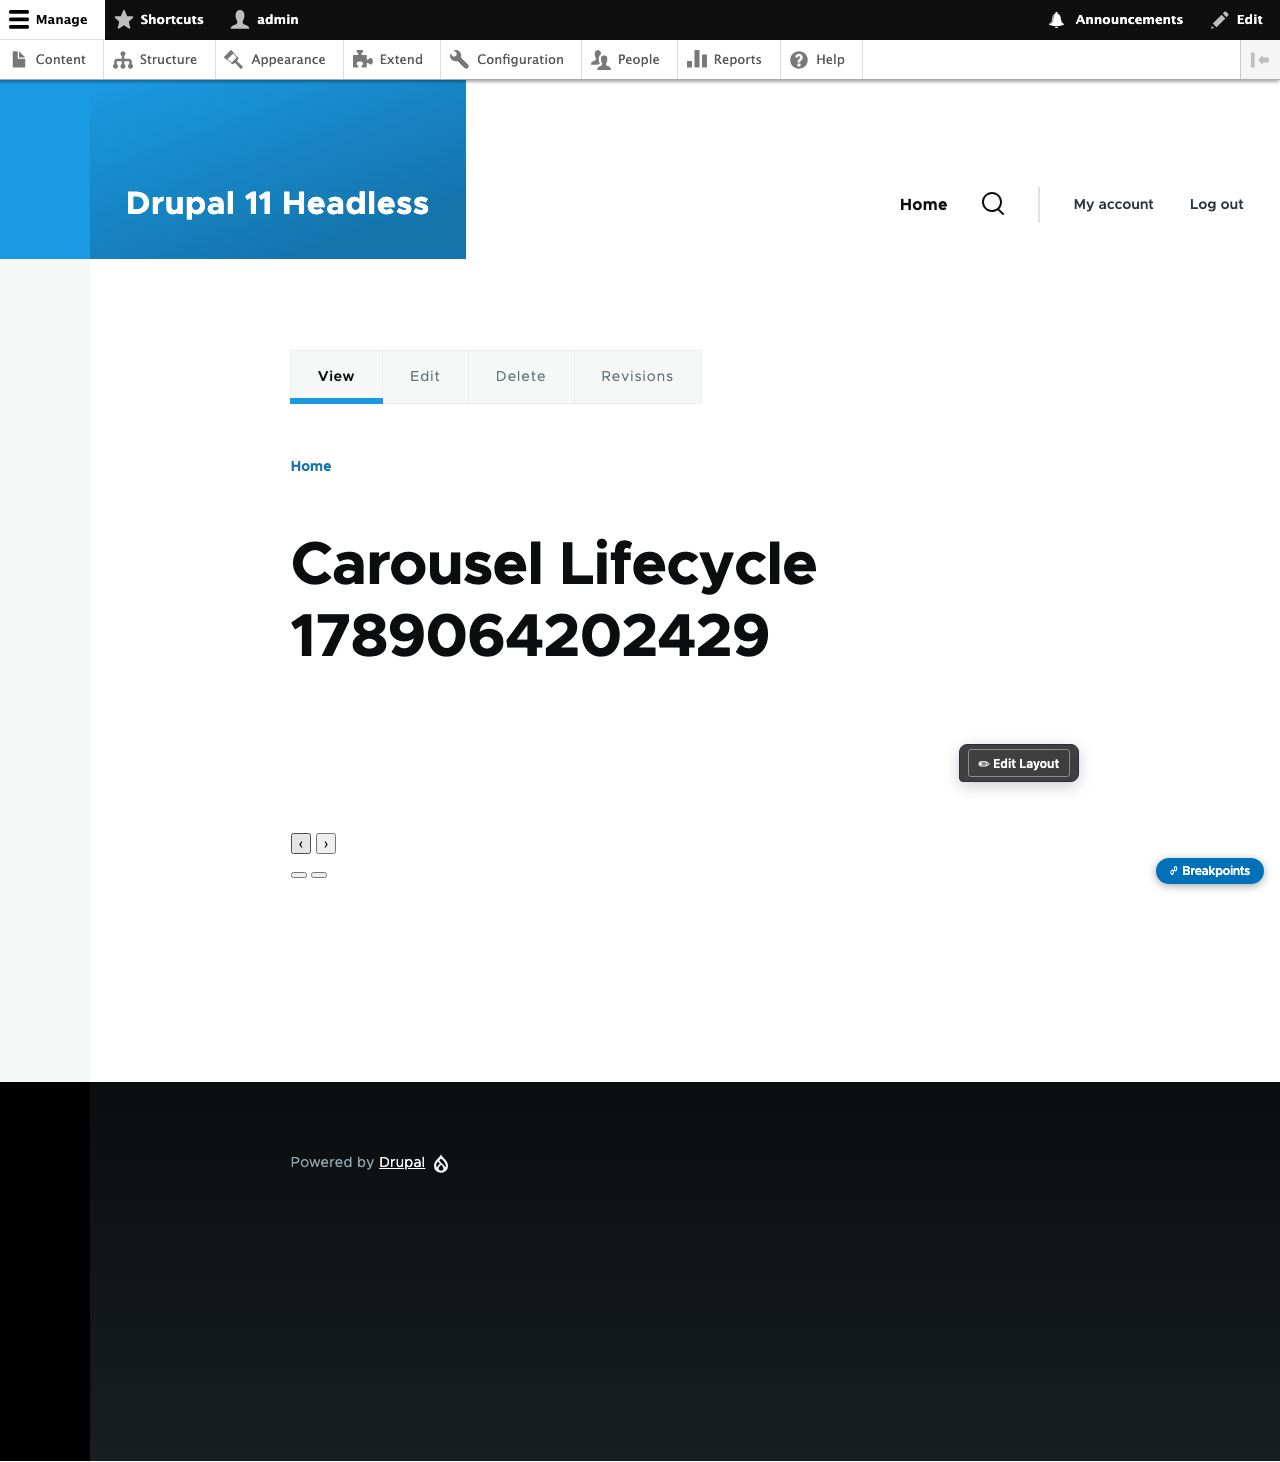
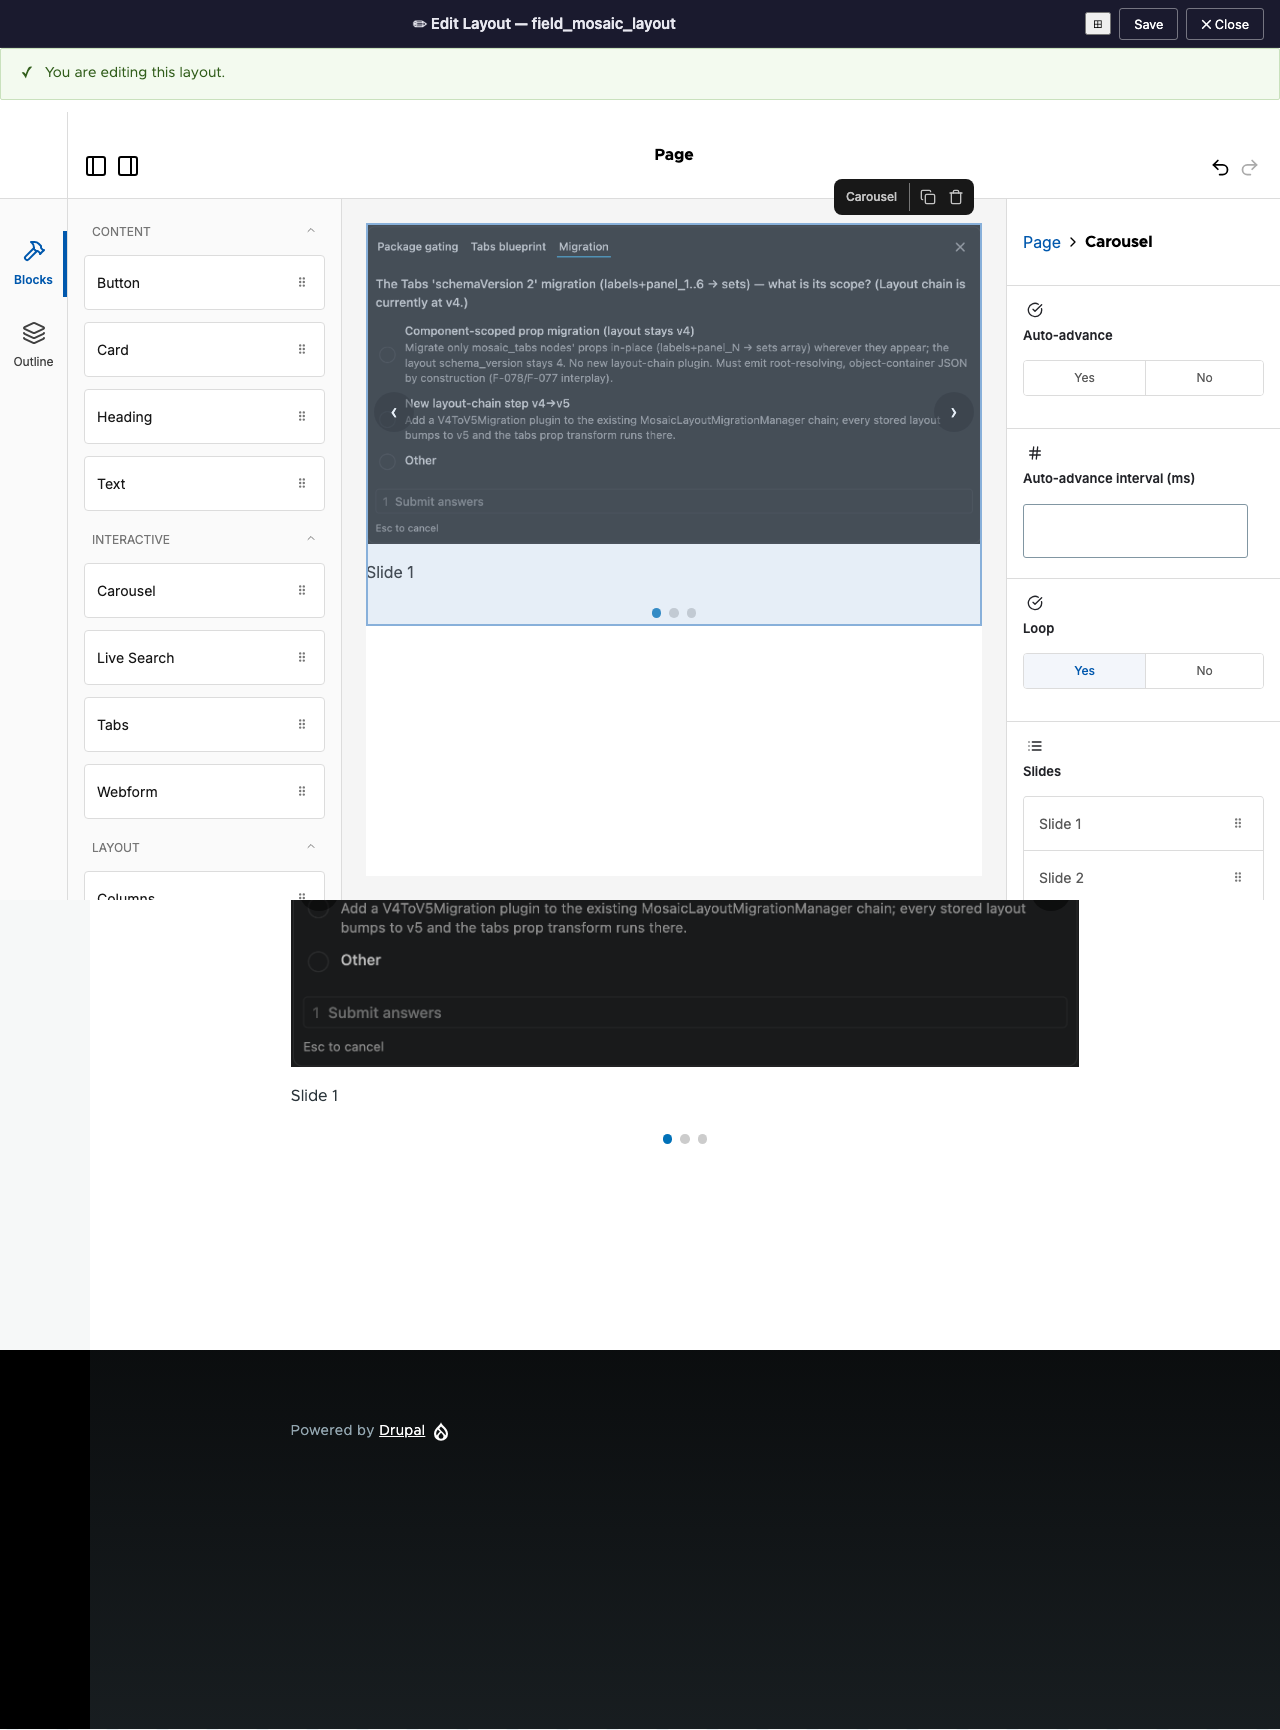
ship #34: walk-catches #50-#54 fixed; carousel album v2 re-film
Root cause (#53/#54 + FE half of #51/#52): <mosaic-carousel> Lit override
reused the hydrated DSD shadow but never adopted static styles, so the
slider CSS was lost and slides stacked as an unclipped list. Fix adopts
elementStyles into the hydrated shadow.

#50 component.yml drops slide_1..6 + migration strips stray slide_N;
#51 renderSingleComponent resolves field_types media on the canvas;
#52 twig keys on slides KEY presence, not emptiness;
#53 anon-page slider proven with a geometry e2e;
#54 FE parity + sync; voided both-hosts claim re-proven from zero with a
geometry oracle on admin + FE.

Gates: PHPCS 0/0, Unit+Kernel 2878/0, Vitest 496/1 (pre-existing B-101),
lock+f066+F-094 15/15. PHPStan delta clean (env drift ledgered).

diff --git a/ledger-live/SHIP-34.md b/ledger-live/SHIP-34.md
@@ -83,3 +83,76 @@ Evidence-only, NOT tracked (gitignored, js/e2e F-048): the 3 `ship34-carousel-*.
 **Clean.** Every tracked change is an intentional carousel-landing file. Pre-existing untracked noise (`js/*.log`,
 `tests/*.log`, `js/esc-probe.config.ts`, `assets/`) is NOT part of this ship and was not touched. Album:
 `ledger-live/e2e-evidence/ship34-carousel/` (11 frames + INDEX). Reviewer audits frames → Arun walk → ceremony.
+
+---
+
+## WALK-CATCHES #50–#54 (Arun walk 2026-09-10) — PROBED + FIXED (ship #34 still FROZEN)
+
+Five defects Arun's live walk found that the unit tests + attribute-only journeys
+missed. All fixed into the same uncommitted ship #34 change set. Walk tally → 54.
+
+**Root cause (shared by #53 + #54, and the FE half of #51/#52 symptoms):** the Lit
+`<mosaic-carousel>` overrides `createRenderRoot()` to REUSE a hydrated declarative-
+shadow-DOM root, but that path never reached `ReactiveElement.createRenderRoot()`,
+so Lit's `static styles` were NEVER adopted. On the FE page (DSD parsed at load)
+and in the canvas (DSD via `setHTMLUnsafe`) the shadow had zero CSS: `.car-track`
+fell back to `display:block`, `.car` to `overflow:visible`, so every slide stacked
+as a vertical list and the sync transform slid the whole unclipped list off-screen.
+The admin canvas "worked" only when `this.shadowRoot` was null (fresh attachShadow
+→ super adopted styles). Fix: `mosaic-carousel.ts` adopts `elementStyles` into the
+(possibly hydrated) shadow root after clearing it (replicates Lit's `adoptStyles`).
+
+- **#50 legacy fields on the v6 panel** — `mosaic_carousel.component.yml` no longer
+  declares `slide_1..6` props → the manifest exposes only `slides`; the migration
+  idempotence path strips any stray `slide_N` keys (`V5ToV6Migration.php`).
+  Proven: Kernel `testCarouselManifestHasNoLegacySlideProps`, Unit
+  `testIdempotenceStripsStrayLegacyKeys`, live panel witness (labels =
+  auto_advance/interval/loop/slides only, zero "Slide N HTML").
+- **#51 canvas image missing** — `MosaicRenderer::renderSingleComponent` now runs
+  `resolveFieldTypeMedia` (canvas SSR resolved only prop_types before). Kernel
+  `testCanvasPreviewResolvesSlideImage`; FE frame `11-fe-carousel.png`.
+- **#52 delete-all-slides ghost** — `mosaic_carousel.twig` keys the new branch on
+  `props.slides is defined` (KEY presence), never emptiness. Kernel
+  `testEmptySlidesRendersNoLegacyGhost`.
+- **#53 page slider broken** — style-adoption fix (above). Geometry e2e
+  `carousel-slider-geometry.spec.ts` on ANON node 942: one slide visible, arrow
+  0→1→2, loop wraps, prev wraps, dots track.
+- **#54 FE canvas ≠ admin (stacked captions + dead sync)** — same style-adoption
+  fix; the sync code was always correct. The VOIDED "both hosts" claim is re-proven
+  from zero with a **geometry oracle** (which slide's centre is in the viewport) on
+  BOTH hosts: `ship34-carousel-sync.spec.ts` (admin) + `ship34-carousel-fe.spec.ts`
+  (FE), expanding row 2 → slide 1 shown, not just `active="1"`.
+
+**Changed this pass — modified:** `js/src/renderer/components/mosaic-carousel.ts` ·
+`src/Service/MosaicRenderer.php` · `src/Plugin/MosaicLayoutMigration/V5ToV6Migration.php` ·
+`modules/mosaic_components/components/mosaic_carousel/{mosaic_carousel.twig, mosaic_carousel.component.yml}` ·
+`tests/src/Kernel/Component/MosaicCarouselRenderTest.php` ·
+`tests/src/Unit/Plugin/MosaicLayoutMigration/V5ToV6MigrationTest.php` · `js/dist/renderer.js` (rebuilt).
+**New:** `tests/src/Kernel/Controller/ManifestFieldTypesTest.php` (#50 cell added) ·
+evidence-only journeys `js/e2e/journeys/{carousel-slider-geometry, ship34-carousel-sync, ship34-carousel-fe, ship34-carousel-lifecycle}.spec.ts` (gitignored).
+
+**Extra add commands (mosaic repo, Arun runs):**
+```
+git add modules/mosaic_components/components/mosaic_carousel/mosaic_carousel.component.yml
+git add tests/src/Kernel/Controller/ManifestFieldTypesTest.php
+git add js/dist/renderer.js   # rebuilt with the #53/#54 style-adoption fix
+```
+
+**Gates (this pass):** PHPCS 0/0 (all changed files) · Unit+Kernel **2878/0** (7516
+assertions, 1 pre-existing PHPUnit warning) · Vitest **496/1** (the 1 fail is the
+documented pre-existing B-101 adapter bool→radio oracle drift, unrelated to the
+carousel) · e2e gates lock + f066 + F-094 scroll parity **15/15** · all 5 carousel
+journeys green. PHPStan: my delta is clean (the only hit in a changed file is the
+pre-existing `MosaicRenderer.php:214 $item->value` magic-property access in the
+untouched `render()`); the module currently shows 61 pre-existing PHPStan errors on
+`src/ tests/` with PHP-version/tooling signatures (`on PHP < 8.4`,
+`AccessResultInterface::cachePerPermissions()`, `ReflectionType` cast deprecation)
+= environmental drift since ship #34, spanning dozens of untouched files.
+
+**FOLLOW-UP LEDGER:** (a) `npm run build` is broken — references a missing
+`vite.bundles.config.ts`; the builder bundle can only be rebuilt via
+`vite.builder.config.ts` directly (renderer via `build:renderer` works). (b) PHPStan
+environmental drift (61 errors) needs a tooling/PHP-version reconcile, separate
+from any feature work. (c) The same DSD style-adoption gap is latent in
+`mosaic-tabs.ts` + `mosaic-live-search.ts` (they survive unstyled because their
+show/hide is attribute-driven, not CSS-driven) — witness + fix when touched.

diff --git a/ledger-live/TODO.md b/ledger-live/TODO.md
@@ -12101,3 +12101,42 @@ covered the media library still "passed" because the DOM click ignored z-order).
   (plain/tagged/entities/empty/long-truncation) → FieldTypes 11/11; full Vitest 496/1-pre-B101; tsc 0. Re-filmed
   frame 05 (panel shows 'Legacy migrated one' CLEAN, no '<p>'). dist rebuilt (builder+FE). Files (part of ship #34
   set): MosaicPuckAdapter.ts, FieldTypes.test.ts. Reviewer-caught pre-walk → still one uncommitted ship #34.
+
+## WALK-CATCHES #50–#54 — Arun's walk 2026-09-10 (tally → 54; ship #34 FROZEN, fixes accumulate)
+**L-C "both hosts" claim VOIDED — to be re-proven from zero (real-pointer film BOTH hosts).**
+- **#50** panel still shows legacy 'Slide 1 HTML'..6 prop fields beside the new Slides rows (3 with data like
+  '<p>Slide 3 UAT</p>') — legacy fields must vanish from the v6 authoring surface and migration should strip
+  slide_N from stored props.
+- **#51** canvas preview shows captions but NOT the selected media image.
+- **#52** deleting ALL slides makes the canvas resurrect old 'Slide 1 HTML' data — dual-mode fallback firing on
+  empty slides; must key on version/key-absence, never emptiness.
+- **#53** PAGE slider broken: all images render as a list; arrow-click slides the whole set off-screen (Lit
+  mosaic-carousel vs new slides markup) — needs real slider red→green with geometry e2e.
+- **#54** FE dialog canvas ≠ admin: arrows shown, ALL captions stacked, panel↔canvas sync FAILS on FE; admin works.
+- Also open: #25/F-072 (Wave 3.2), #29/F-081 (parked).
+- **PASSED same walk:** authoring flow (+, image via library, CKE5 caption modal, link), reorder, admin sync,
+  clean summaries, save→page data, Tabs regression, 826 sanity.
+
+### RESOLUTION 2026-09-12 — all five FIXED (into the frozen ship #34 change set); tally 54, all closed-pending-ship.
+**Shared root cause (#53/#54 + FE half of #51/#52):** `<mosaic-carousel>` Lit override reused the hydrated
+declarative-shadow-DOM root but never adopted `static styles` (skipped `ReactiveElement.createRenderRoot()`), so the
+shadow had zero CSS → `.car-track` `display:block`, `.car` `overflow:visible` → slides stacked as a list, the sync
+transform slid the whole unclipped list off-screen. Admin "worked" only when `shadowRoot` was null (fresh attachShadow
+→ super adopted styles). Fix: `mosaic-carousel.ts` adopts `elementStyles` into the (possibly hydrated) shadow.
+- **#50 FIXED** — `mosaic_carousel.component.yml` drops `slide_1..6` props (manifest exposes only `slides`); migration
+  idempotence strips stray `slide_N`. Kernel `testCarouselManifestHasNoLegacySlideProps` + Unit
+  `testIdempotenceStripsStrayLegacyKeys` + live panel witness (labels = auto_advance/interval/loop/slides only).
+- **#51 FIXED** — `MosaicRenderer::renderSingleComponent` now runs `resolveFieldTypeMedia` (canvas SSR). Kernel
+  `testCanvasPreviewResolvesSlideImage`; FE frame 11.
+- **#52 FIXED** — `mosaic_carousel.twig` keys the new branch on `props.slides is defined` (KEY presence, not empty).
+  Kernel `testEmptySlidesRendersNoLegacyGhost`.
+- **#53 FIXED** — style-adoption. Geometry e2e `carousel-slider-geometry.spec.ts` (anon node 942): one slide visible,
+  arrow 0→1→2, loop wraps, prev wraps, dots track.
+- **#54 FIXED** — same fix; sync code was always correct. **VOIDED "both hosts" claim RE-PROVEN FROM ZERO** with a
+  geometry oracle (viewport-centre slide, not `active` attr) on BOTH hosts: `ship34-carousel-sync.spec.ts` (admin) +
+  `ship34-carousel-fe.spec.ts` (FE).
+- **Gates:** PHPCS 0/0 · Unit+Kernel 2878/0 · Vitest 496/1 (pre-existing B-101 bool→radio oracle drift) · e2e
+  lock+f066+F-094 15/15 · 5 carousel journeys green. PHPStan delta clean (61 pre-existing environmental errors on
+  src/ tests/ from PHP-version/tooling drift — ledgered, not this charter). Album v2 re-filmed (e2e-evidence/ship34-carousel/).
+- **Follow-ups ledgered (SHIP-34.md):** broken `npm run build` (missing vite.bundles.config.ts); PHPStan env drift;
+  latent same-pattern style-adoption gap in `mosaic-tabs.ts` + `mosaic-live-search.ts`.

diff --git a/ledger-live/e2e-evidence/ship34-carousel/INDEX.md b/ledger-live/e2e-evidence/ship34-carousel/INDEX.md
@@ -1,23 +1,37 @@
-# SHIP #34 — carousel album INDEX
+# SHIP #34 — carousel album (v2 re-film, WALK-CATCHES #50–#54)
 
-Frames from the live full-lifecycle carousel journeys (both surfaces), node 939 (v6
-slides carousel) + node 940 (legacy v5 slide_N auto-migrated to v6 on save).
+Frames from the live full-lifecycle carousel journeys, re-filmed from zero after
+Arun's walk 2026-09-10 surfaced five defects (#50–#54). The prior "both hosts"
+sync claim was VOIDED and is re-proven here with a **geometry oracle** — which
+slide's centre actually sits inside the carousel viewport — not the `active`
+attribute alone (the attribute passed during the walk while nothing moved because
+the shadow had no adopted styles).
 
-## L-C — panel↔canvas active-slide sync (admin, real pointer)
-- `01-carousel-selected.png` — carousel selected in the builder canvas.
-- `02-slide-2-expanded.png` — slide row 2 expanded → canvas shows slide 2 (`active="1"`).
-- `03-collapsed-first-slide.png` — collapsed → canvas returns to slide 1 (`active="0"`).
+Fixtures (provisioned in the scratch DB):
+- **node 942** — v6 `slides` carousel, 3 image slides (items slot).
+- **node 943** — legacy v5 slide_N carousel, auto-migrates to v6 on load/save.
 
-## L-E — full lifecycle (admin)
+## #53 — anonymous page slider (geometry e2e, `carousel-slider-geometry.spec.ts`)
+Assertion-only (no frame): on `/node/942` the carousel is clipped to ONE slide,
+the next arrow advances 0→1→2, the loop wraps 2→0, prev wraps 0→2, and the dots
+track the active slide. Before the fix every slide stacked as a vertical list and
+the arrow slid the whole set off-screen (Lit's static styles were never adopted
+into the hydrated declarative-shadow-DOM root).
+
+## #54 — panel↔canvas sync, ADMIN host (`ship34-carousel-sync.spec.ts`)
+- `01-admin-carousel-selected.png` — carousel selected; clipped to slide 0.
+- `02-admin-slide-2-expanded.png` — slide row 2 expanded → canvas SHOWS slide 1 (geometry-verified, `active="1"`).
+- `03-admin-collapsed-first-slide.png` — collapsed → canvas returns to slide 0.
+
+## #52 — full lifecycle, ADMIN (`ship34-carousel-lifecycle.spec.ts`, node 943)
 - `04-lifecycle-loaded.png` — migrated v6 carousel loads in the canvas.
-- `05-lifecycle-slides-panel.png` — panel shows the 2 migrated slides rows (captions preserved).
+- `05-lifecycle-slides-panel.png` — panel shows the 2 migrated slides rows (captions preserved); NO legacy slide_N fields (#50).
 - `06-lifecycle-saved.png` — saved → node view.
-- `07-lifecycle-reloaded-persisted.png` — reload → v6 `slides` JSON persisted (no slide_N).
+- `07-lifecycle-reloaded-persisted.png` — reload → v6 `slides` JSON persisted (no slide_1).
 - `09-page-render.png` — anonymous page renders the carousel + captions (no double-escape).
 
-## L-E — frontend editor surface
+## #51 + #54 — frontend editor surface (`ship34-carousel-fe.spec.ts`, node 942)
 - `10-fe-page.png` — rendered page with the frontend Edit-Layout affordance.
-- `11-fe-carousel.png` — v6 carousel loads inside the frontend editor dialog.
-- `12-fe-slides-panel.png` — carousel selected on the FE surface.
-
-Reviewer audits these → Arun walk → ceremony.
+- `11-fe-carousel.png` — v6 carousel loads inside the FE dialog, clipped to one slide (captions NOT stacked; media image resolves — #51).
+- `12-fe-slide-2-shown.png` — slide row 2 expanded → FE canvas SHOWS slide 1 (geometry parity with admin — #54 sync).
+- `13-fe-collapsed.png` — collapsed → FE canvas returns to slide 0.
